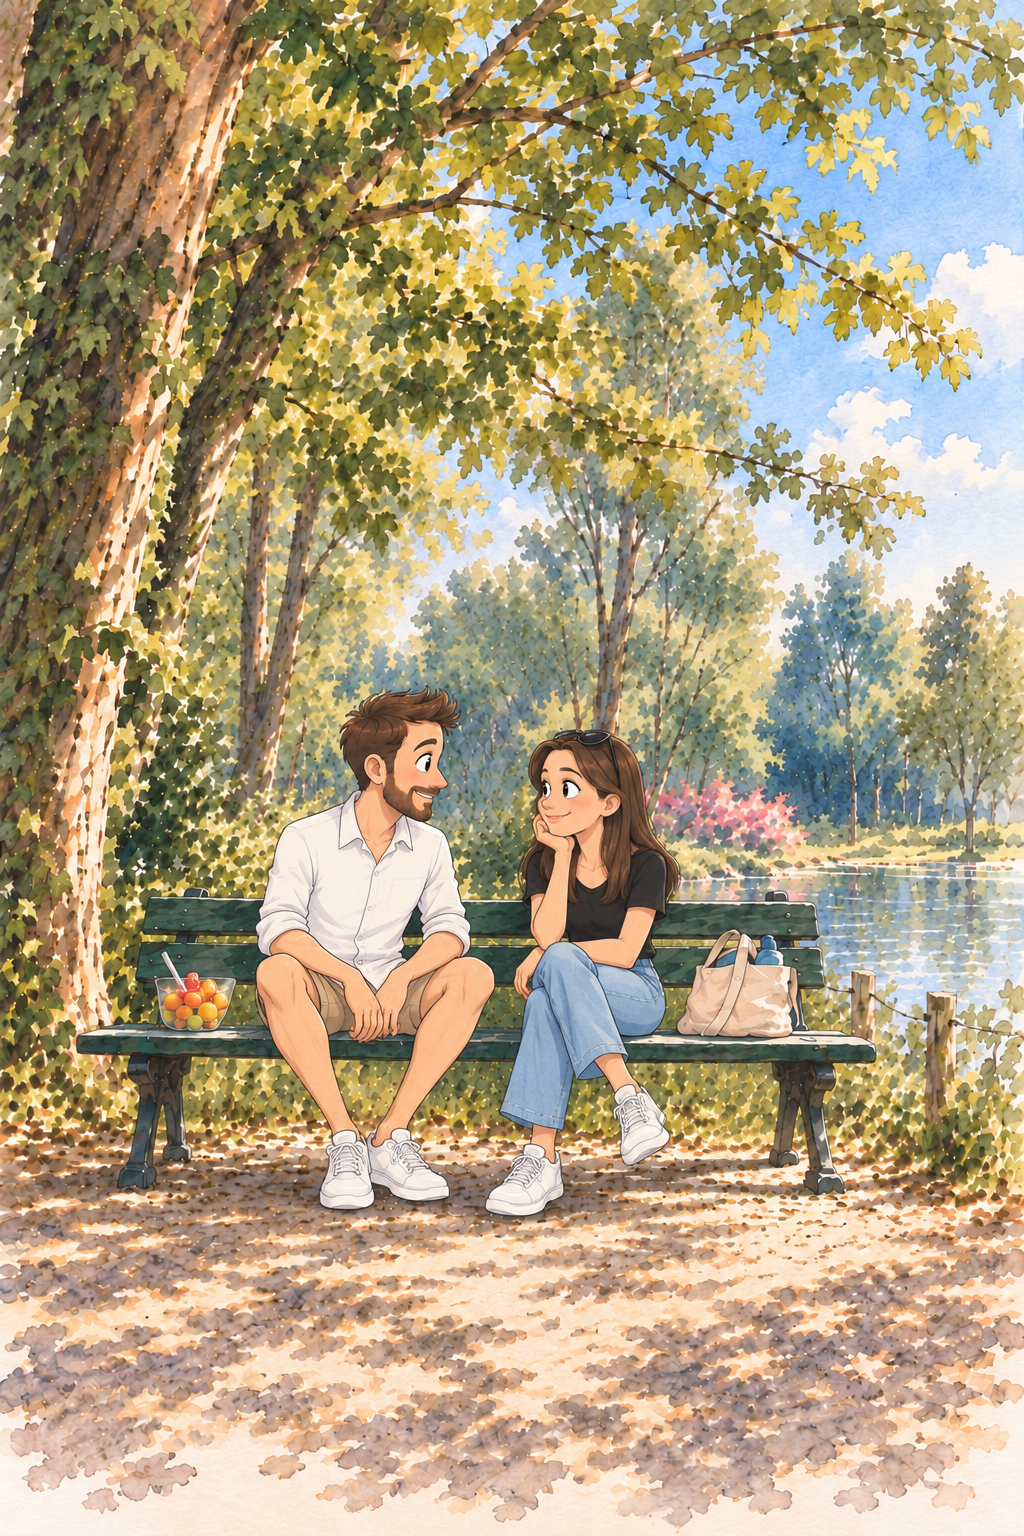
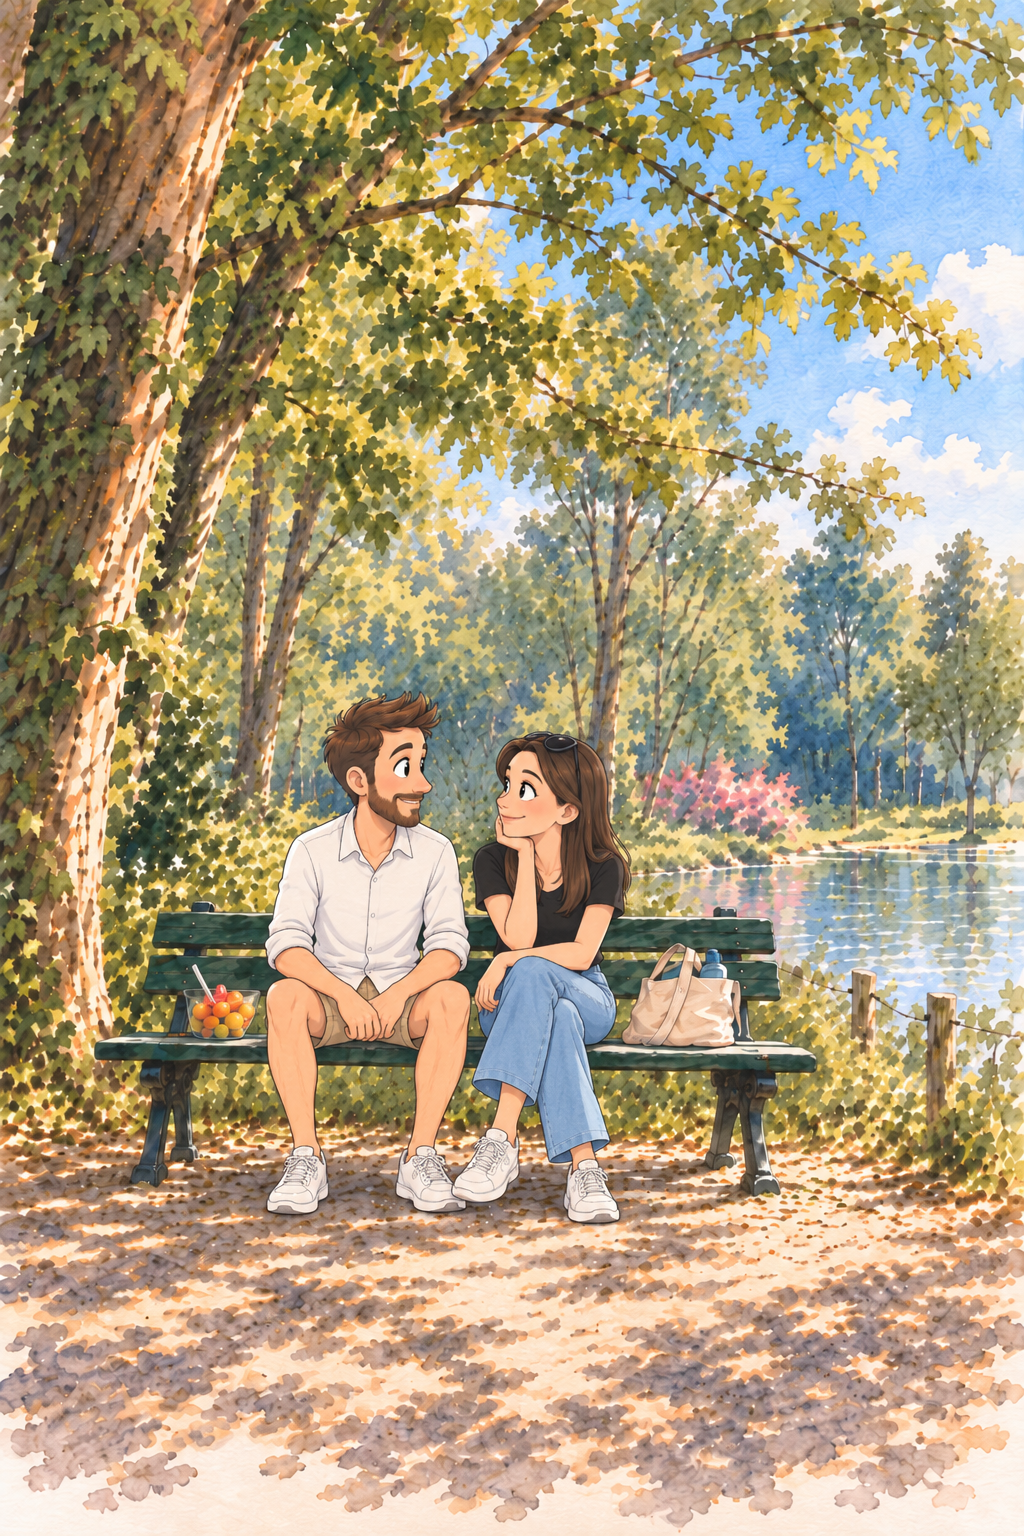
fix: update D1 characters and slow reveal to three seconds

diff --git a/styles.css b/styles.css
@@ -1056,7 +1056,7 @@ body:has(.d1-portrait-gallery)::before { opacity: 1; background: url("assets/ope
 @media (prefers-reduced-motion: reduce) { .d1-portrait-gallery { animation: none; } }
 
 .d1-portrait-gallery__scene { position: relative; width: 100%; }
-.d1-portrait-gallery__scene .d1-portrait-gallery__memory { position: absolute; inset: 0; width: 100%; height: 100%; opacity: 0; transition: opacity 800ms ease; }
+.d1-portrait-gallery__scene .d1-portrait-gallery__memory { position: absolute; inset: 0; width: 100%; height: 100%; opacity: 0; transition: opacity 3000ms ease; }
 .d1-portrait-gallery__scene .d1-portrait-gallery__memory.is-revealed { opacity: 1; }
 @media (prefers-reduced-motion: reduce) { .d1-portrait-gallery__scene .d1-portrait-gallery__memory { transition: none; } }
 

diff --git a/service-worker.js b/service-worker.js
@@ -1,4 +1,4 @@
-const CACHE_NAME = "voyage-majorque-v1-4-30-d1-immersive";
+const CACHE_NAME = "voyage-majorque-v1-4-31-d1-slow-reveal";
 const APP_SHELL = [
   "./assets/challenge-1/v1-4-30/d1-vincennes-portrait-decor.png",
   "./assets/challenge-1/v1-4-30/d1-vincennes-portrait-characters.png",
@@ -36,9 +36,9 @@ const APP_SHELL = [
   "./index.html",
   "./manifest.webmanifest?v=1.4.8",
   "./manifest-debug.webmanifest?v=1.4.8",
-  "./styles.css?v=1.4.30",
-  "./script.js?v=1.4.30",
-  "./config.js?v=1.4.30",
+  "./styles.css?v=1.4.31",
+  "./script.js?v=1.4.31",
+  "./config.js?v=1.4.31",
   "./challenge-one.js?v=1.4.23",
   "./family-game.js?v=1.4.23",
   "./gallery-soundtrack.js?v=1.2.1",

diff --git a/index.html b/index.html
@@ -18,7 +18,7 @@
   </script>
   <link rel="icon" type="image/png" sizes="192x192" href="assets/icons/icon-192-v1.png" />
   <link rel="apple-touch-icon" sizes="180x180" href="assets/icons/apple-touch-icon-v1.png" />
-  <link rel="stylesheet" href="styles.css?v=1.4.30" />
+  <link rel="stylesheet" href="styles.css?v=1.4.31" />
 </head>
 <body>
   <div class="weather" aria-hidden="true">
@@ -90,6 +90,6 @@
   </aside>
 
   <noscript>Ce carnet a besoin de JavaScript pour raconter son histoire.</noscript>
-  <script type="module" src="script.js?v=1.4.30"></script>
+  <script type="module" src="script.js?v=1.4.31"></script>
 </body>
 </html>

diff --git a/script.js b/script.js
@@ -2,7 +2,7 @@ import { renderD1PortraitGallery } from "./d1-portrait-gallery.js?v=1.4.30";
 import { gameplayHeader } from "./gameplay-header.js?v=1.4.23";
 import { challengeIntro } from "./challenge-intro.js?v=1.4.19";
 import { renderChallengeSix } from "./challenge-six.js?v=1.4.23";
-import { APP_VERSION, CONFIG, STEPS } from "./config.js?v=1.4.30";
+import { APP_VERSION, CONFIG, STEPS } from "./config.js?v=1.4.31";
 import { renderChallengeOne } from "./challenge-one.js?v=1.4.23";
 import { renderFamilyGame } from "./family-game.js?v=1.4.23";
 import { createGallerySoundtrack } from "./gallery-soundtrack.js?v=1.2.1";

diff --git a/config.js b/config.js
@@ -1,5 +1,5 @@
 // Configuration éditoriale V1. Toute mention PLACEHOLDER reste à remplacer.
-export const APP_VERSION = "1.4.30";
+export const APP_VERSION = "1.4.31";
 
 export const CONFIG = {
   storageKey: "voyage-majorque-v1",
